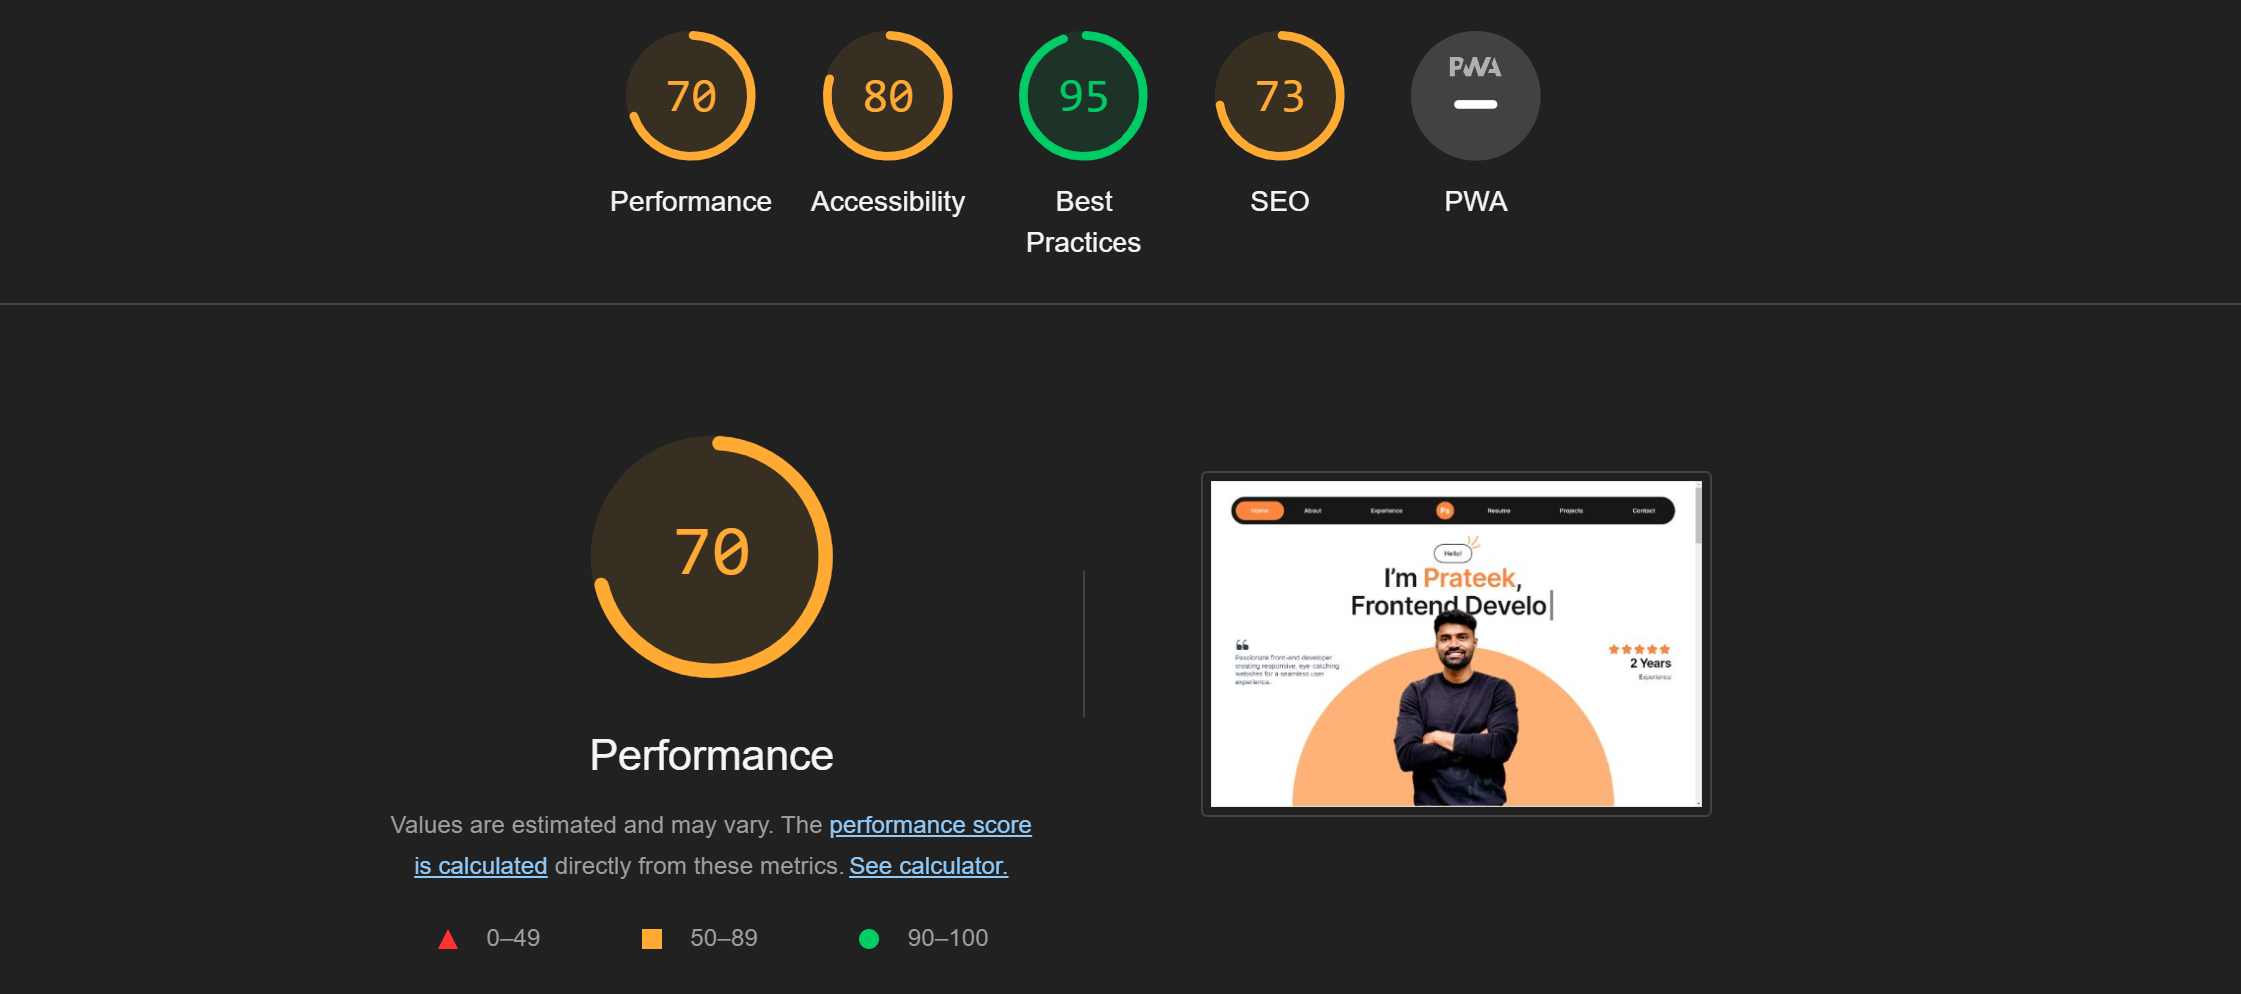
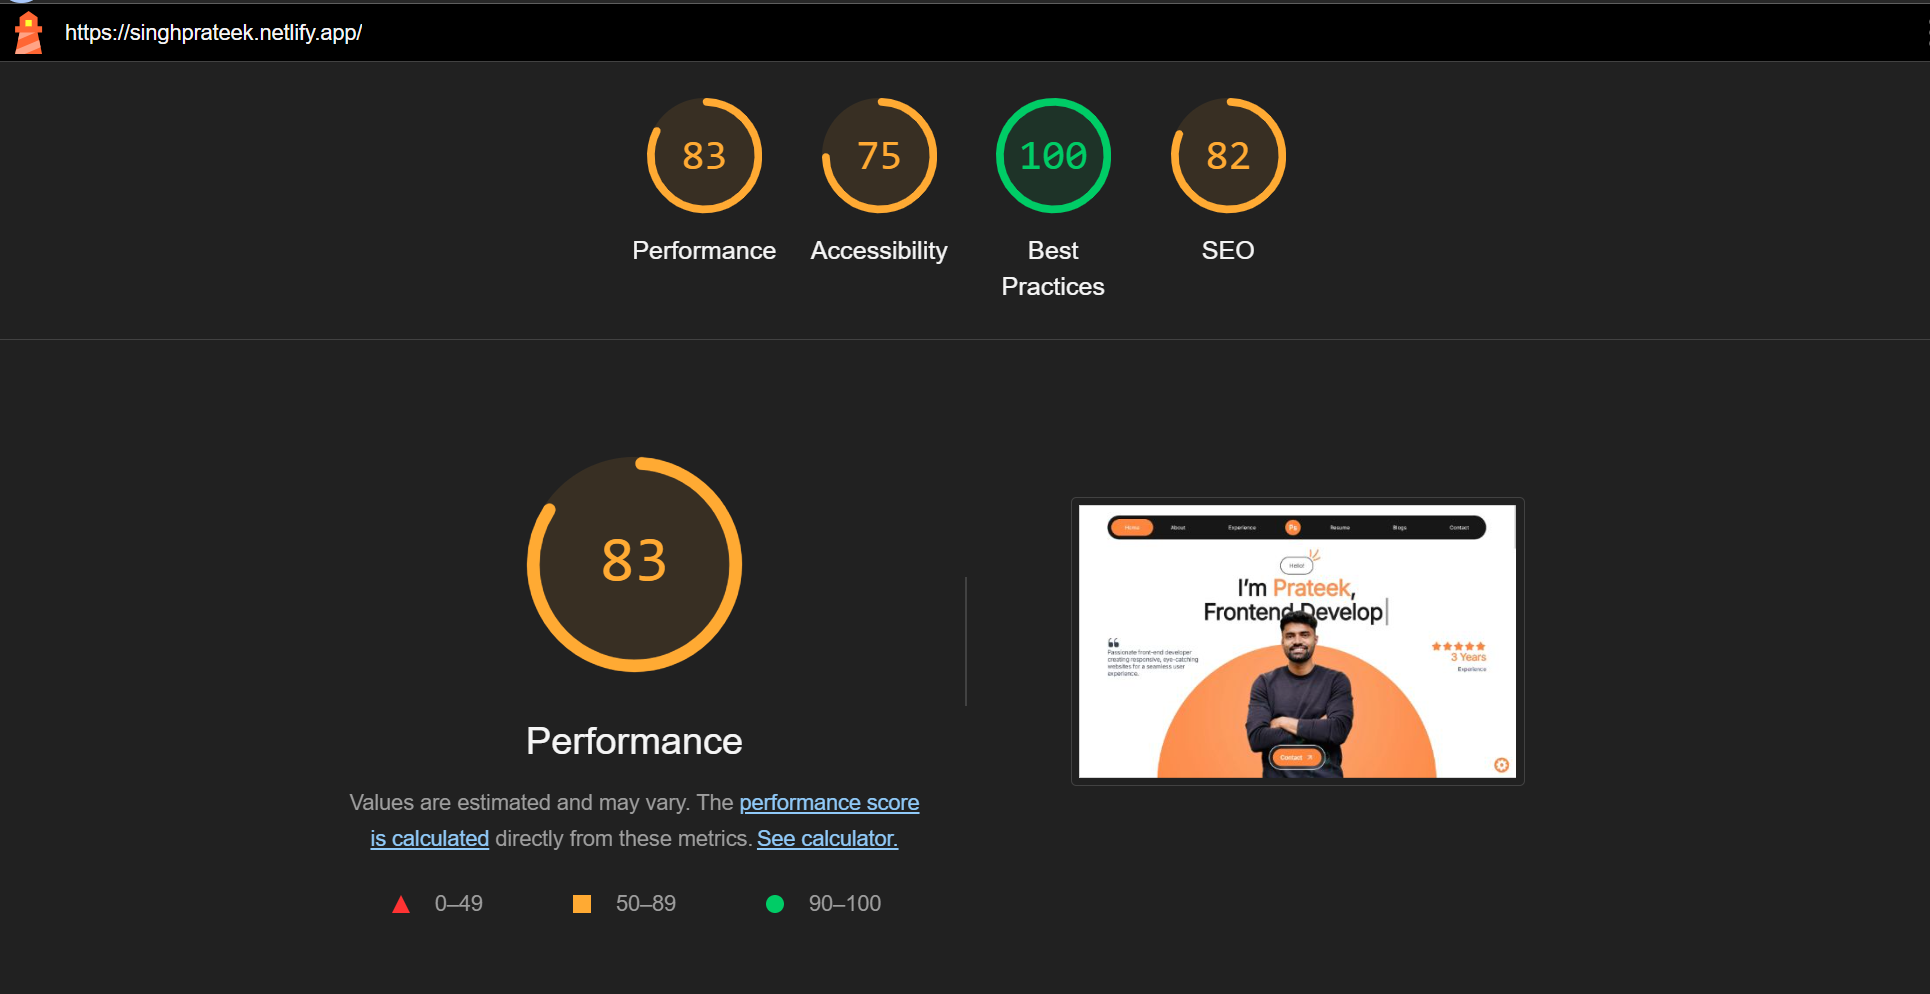
Adde few miss matched style

diff --git a/src/constants/index.tsx b/src/constants/index.tsx
@@ -81,6 +81,7 @@ export const Experience = [
         designation: 'Frontend Developer',
         company: 'MyYogaTeacher',
         date: 'July 2023 - Current',
+        link:'https://myyogateacher.com/',
         icon:'https://cloudimages.myyogateacher.com/dgerdfai4/image/upload/f_auto/v1642535357/website/lp/mobileHeaderIcon.png',
         description: '<ul><li>Develop and maintain <b>user-friendly, high-performance web applications</b> using modern frontend technologies.</li><li>Write <b>clean, efficient, and maintainable code</b> following industry best practices.</li><li><b>Seamlessly integrate REST APIs</b>, ensuring robust and responsive user experiences.</li><li>Recognized for <b>collaborative teamwork, innovation, and adaptability</b> in dynamic environments.</li><li>Passionate about <b>continuous learning, problem-solving, and delivering scalable solutions</b>.</li></ul>',
     },
@@ -88,6 +89,7 @@ export const Experience = [
         designation: 'UI Developer',
         company: 'MyYogaTeacher',
         date: 'April 2022 - June 2023',
+        link:'https://myyogateacher.com/',
         icon:'https://cloudimages.myyogateacher.com/dgerdfai4/image/upload/f_auto/v1642535357/website/lp/mobileHeaderIcon.png',
         description: '<ul><li><b>Skilled UI Developer</b> with expertise in creating <b>visually appealing and highly responsive applications</b>.</li><li><b>Expert in building reusable components</b> to enhance efficiency, maintainability, and design consistency.</li><li><b>Passionate about crafting intuitive user interfaces</b> that deliver a seamless and engaging user experience.</li><li>Adept at <b>translating design concepts into high-performance, pixel-perfect implementations</b>.</li></ul>',
     },
@@ -95,6 +97,7 @@ export const Experience = [
         designation: 'Frontend Course',
         company: 'Prepbytes',
         date: 'September 2021 - January 2022',
+        link:'https://www.prepbytes.com/',
         icon:'https://s3.ap-south-1.amazonaws.com/www.prepbytes.com/images/logo.webp',
         description: '<ul><li>Familiar with <b>HTML, CSS, and JavaScript</b>, focusing on <b>clean code, responsive design, and cross-browser compatibility</b>.</li><li>Skilled in <b>Git version control</b> and familiar with front-end frameworks like <b>React</b>.</li><li>Emphasized <b>performance optimization and accessibility</b>, showcasing abilities through a diverse portfolio.</li><li>Committed to <b>continuous learning, problem-solving, and effective communication</b> in team environments.</li></ul>',
     },

diff --git a/src/components/About/About.css b/src/components/About/About.css
@@ -15,7 +15,7 @@
   max-width: 1100px;
   display: flex;
   flex-direction: column;
-    gap: 70px;
+  gap: 70px;
 }
 
 .hire-me-container {
@@ -135,7 +135,7 @@
 
 .tech-icon-container {
   display: flex;
-  gap: 25px;
+  gap: 5px;
 }
 
 .tech-icon-child {
@@ -145,22 +145,22 @@
   align-items: center;
   justify-content: center;
 }
-.tech-icon-child > img {
-    position: absolute;
-    cursor: pointer;
-    display: flex;
-    align-items: center;
-    justify-content: center;
-    width: 50px;
-    height: 50px;
-    transition: height 0.3s ease, width 0.3s ease;
-  }
-  
-  .tech-icon-child > img:hover {
-    width: 70px;
-    height: 70px;
-  }
-  
+
+.tech-icon-child-icon {
+  position: absolute;
+  cursor: pointer;
+  display: flex;
+  align-items: center;
+  justify-content: center;
+  width: 40px;
+  height: 40px;
+  transition: height 0.3s ease, width 0.3s ease;
+}
+
+.tech-icon-child-icon:hover {
+  width: 50px;
+  height: 50px;
+}
 
 @media screen and (max-width: 768px) {
   .hire-me-container {
@@ -176,6 +176,7 @@
     flex-wrap: wrap;
     align-items: center;
     justify-content: center;
+    row-gap: 25px;
   }
 
   .about-tech-title {
@@ -188,9 +189,9 @@
     display: none;
   }
 
-    .about-section {
-        gap: 30px;
-    }
+  .about-section {
+    gap: 30px;
+  }
 
   .about-wrapper {
     padding: 50px 25px;

diff --git a/src/components/About/index.tsx b/src/components/About/index.tsx
@@ -70,7 +70,7 @@ const About: React.FunctionComponent = () => {
                         <div className="tech-icon-container">
                             {TechIcon.map((item, index) => (
                                 <a key={index} href={item.link} target="_blank" className="tech-icon-child">
-                                    <img loading="lazy" id={item.title} key={index} src={item.logo} data-tooltip-id={item.title} data-tooltip-content={item.title} alt="icon"/>
+                                    <img className="tech-icon-child-icon" id={item.title} key={index} src={item.logo} data-tooltip-id={item.title} data-tooltip-content={item.title} alt="icon"/>
                                     <MyToolTip id={item.title} />
                                 </a>
                             ))}

diff --git a/src/common/Card/index.tsx b/src/common/Card/index.tsx
@@ -25,7 +25,7 @@ const Cards: React.FunctionComponent<CardsProps> = ({ image, title, type, descri
             <div className='card-img-container'>
                 <img loading='lazy' src={image} alt="Card" />
             </div>
-            <div className={`card-description-container ${onHover ? 'card-description-hover' : 'card-description-not-hover'}`}>
+            <div className={`card-description-container ${onHover ? 'card-description-hover p-[25px]' : 'card-description-not-hover p-[25px]'}`}>
                 <div className='card-title-container'>
                     <p className='card-title'>{title}</p>
                     <p className='card-date'>{type}</p>

diff --git a/src/common/Card/Cards.css b/src/common/Card/Cards.css
@@ -25,7 +25,7 @@
     align-items: center;
     justify-content: space-between;
     border-bottom: 1px solid rgb(255, 255, 255, 0.5);
-    padding-bottom: 16px;
+    padding-bottom: 25px;
 }
 
 .card-title {
@@ -52,7 +52,6 @@
 
 .card-description-container {
     width: -webkit-fill-available;
-    padding: 15px 25px 25px 25px;
     position: absolute;
     bottom: 0;
     left: 0;
@@ -68,7 +67,7 @@
 }
 
 .card-description-not-hover {
-    max-height: 15px;
+    max-height: 75px;
     overflow: hidden;
     transition: max-height 0.3s ease-in-out;
 }

diff --git a/src/index.css b/src/index.css
@@ -121,7 +121,7 @@ body.dark {
 }
 
 .home-main-screen {
-  height: calc(100vh - 90px);
+  height: calc(100vh - 100px);
   display: flex;
   align-items: center;
   flex-direction: column;
@@ -211,12 +211,12 @@ body.dark {
 }
 @media screen and (max-width: 1100px) {
   .home-main-screen {
-    height: calc(100vh - 60px);
+    height: calc(100vh - 100px);
   }
 }
 @media screen and (max-width: 768px) {
   .home-main-screen {
-    height: calc(100vh - 90px);
+    height: calc(100vh - 75px);
   }
   .header-title-container {
     padding-left: 0;

diff --git a/src/components/WorkExperience/index.tsx b/src/components/WorkExperience/index.tsx
@@ -63,9 +63,9 @@ const WorkExperience: React.FunctionComponent = () => {
                       </div>
                     </div>
                     <div className="experience-info-seperator">
-                      <div className="experience-info-dot">
+                      <a href={work.link} target="_blank" className="experience-info-dot">
                         <img src={work.icon} />
-                      </div>
+                      </a>
                     </div>
                   </div>
                 );

diff --git a/src/components/WorkExperience/WorkExperience.css b/src/components/WorkExperience/WorkExperience.css
@@ -130,6 +130,7 @@
     top: 42%;
     left: -20px;
     border-radius: 50%;
+    cursor: pointer;
 
     display: flex;
     align-items: center;
@@ -140,6 +141,14 @@
     width: 40px;
     border: 3px solid var(--primary-color);
     background-color: white;
+    transition: height 0.3s ease, width 0.3s ease, top 0.3s ease, left 0.3s ease;
+}
+
+.experience-info-dot:hover{
+    height: 60px;
+    width: 60px;
+    left: -30px;
+    top: 40%;
 }
 
 .experience-info-dot > img{

diff --git a/src/pages/Home/Home.css b/src/pages/Home/Home.css
@@ -29,7 +29,7 @@
 
 .home-hero-image>img {
     position: absolute;
-    bottom: 3px;
+    bottom: -10px;
     left: 16rem;
     height: 500px;
     filter: contrast(1.2);
